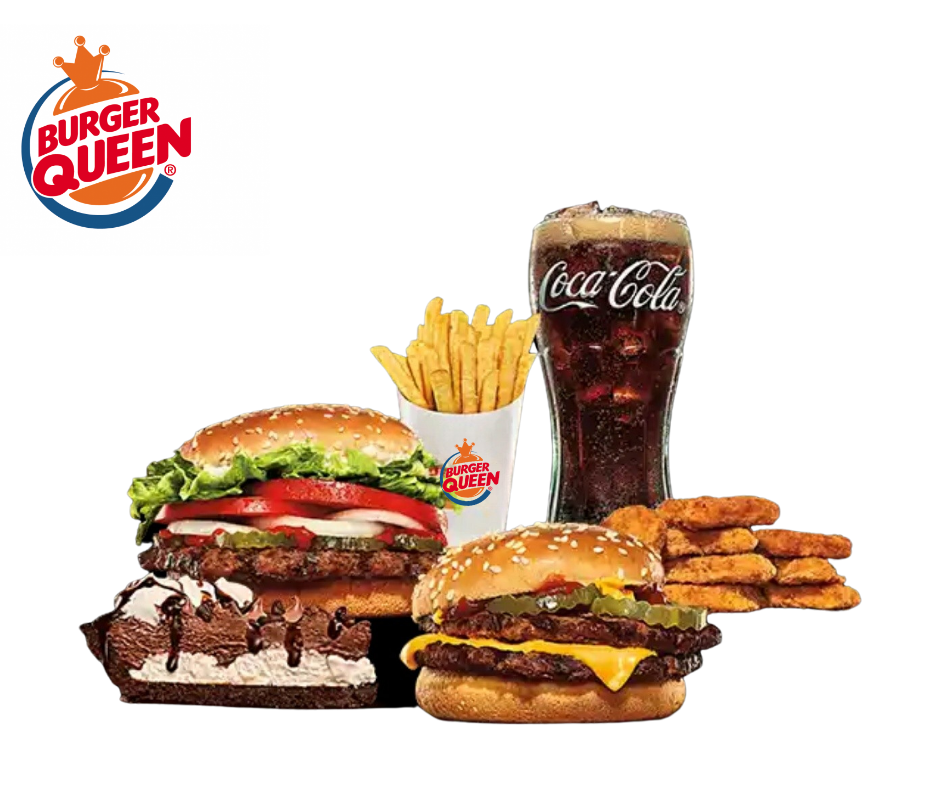
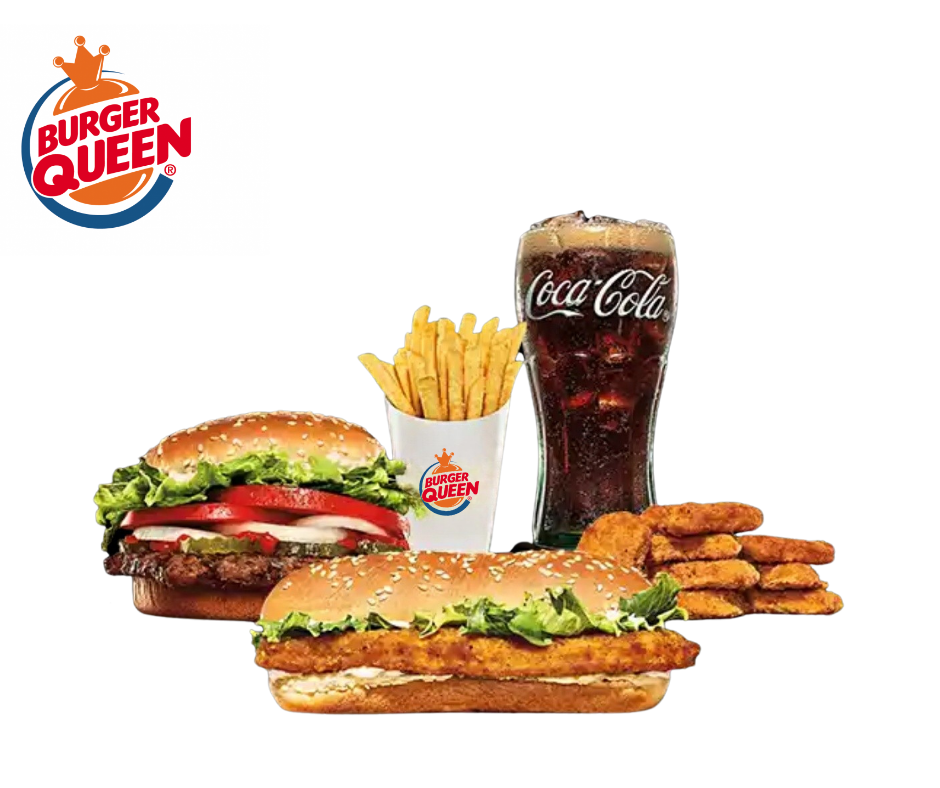
new carousel slide

Changed region(s): [[0.0617, 0.2437, 0.9255, 0.9442]]

diff --git a/order.html b/order.html
@@ -20,73 +20,37 @@
     <div class="row justify-content-center">
      
       <!------------------------Left Col Start-------------------------------------->
-      <div class="col-lg-7">
-        <h1 class="fs-2 text-center mt-5">TASTE THE ROYALLY AWESOME GOODNESS!!!!</h1>
+      <div class="col-lg-7 mt-2">
        
       <!-----------------------Carousel Start-------------------------------------->
         <div id="carouselExampleCaptions" class="carousel slide carousel-fade carousel-dark" data-bs-interval="5000" data-bs-ride="carousel">
-          <div class="carousel-indicators">
-            <button type="button" data-bs-target="#carouselExampleCaptions" data-bs-slide-to="0" class="active">
-            </button>
-            <button type="button" data-bs-target="#carouselExampleCaptions" data-bs-slide-to="1">
-            </button>
-            <button type="button" data-bs-target="#carouselExampleCaptions" data-bs-slide-to="2">
-            </button>
-            <button type="button" data-bs-target="#carouselExampleCaptions" data-bs-slide-to="3">
-            </button>
-            <button type="button" data-bs-target="#carouselExampleCaptions" data-bs-slide-to="4">
-            </button>
-            <button type="button" data-bs-target="#carouselExampleCaptions" data-bs-slide-to="5">
-            </button>
-            <button type="button" data-bs-target="#carouselExampleCaptions" data-bs-slide-to="6">
-            </button>
-            <button type="button" data-bs-target="#carouselExampleCaptions" data-bs-slide-to="7">
-            </button>
-            <button type="button" data-bs-target="#carouselExampleCaptions" data-bs-slide-to="8">
-            </button>
-            <button type="button" data-bs-target="#carouselExampleCaptions" data-bs-slide-to="9">
-            </button>
-            <button type="button" data-bs-target="#carouselExampleCaptions" data-bs-slide-to="10">
-            </button>
-            <button type="button" data-bs-target="#carouselExampleCaptions" data-bs-slide-to="11">
-            </button>
-          </div>
           <div class="carousel-inner">
             <div class="carousel-item active">
-              <img src="images/burger1.png" class="d-block w-100" alt="burger">
+              <img src="images/slide.png" class="d-block w-100 img-fluid" alt="burger">
             </div>
             <div class="carousel-item">
-              <img src="images/burger2.png" class="d-block w-100" alt="burger">
+              <img src="images/slide2.png" class="d-block w-100" alt="burgerer">
             </div>
             <div class="carousel-item">
-              <img src="images/burger3.png" class="d-block w-100" alt="burger">
+              <img src="images/slide3.png" class="d-block w-100" alt="burgerest">
             </div>
             <div class="carousel-item">
-              <img src="images/chicken1.png" class="d-block w-100" alt="burger">
+              <img src="images/slide4.png" class="d-block w-100" alt="chicken">
             </div>
             <div class="carousel-item">
-              <img src="images/chicken2.png" class="d-block w-100" alt="burger">
+              <img src="images/slide5.png" class="d-block w-100" alt="chickener">
             </div>
             <div class="carousel-item">
-              <img src="images/chicken3.png" class="d-block w-100" alt="burger">
+              <img src="images/slide6.png" class="d-block w-100" alt="chickenest">
             </div>
             <div class="carousel-item">
-              <img src="images/bundle1.png" class="d-block w-100" alt="burger">
+              <img src="images/slide7.png" class="d-block w-100" alt="bundle">
             </div>
             <div class="carousel-item">
-              <img src="images/bundle2.png" class="d-block w-100" alt="burger">
+              <img src="images/slide8.png" class="d-block w-100" alt="bundler">
             </div>
             <div class="carousel-item">
-              <img src="images/bundle3.png" class="d-block w-100" alt="burger">
-            </div>
-            <div class="carousel-item">
-              <img src="images/fries.png" class="d-block w-100" alt="burger">
-            </div>
-            <div class="carousel-item">
-              <img src="images/nuggets.png" class="d-block w-100" alt="burger">
-            </div>
-            <div class="carousel-item">
-              <img src="images/onionrings.png" class="d-block w-100" alt="burger">
+              <img src="images/slide9.png" class="d-block w-100" alt="bundlest">
             </div>
           </div>
         </div>
@@ -181,26 +145,26 @@
           </div>
           <div class="col">
             <div class="form-check">
-              <input class="form-check-input" type="checkbox" value="" id="flexCheckDefault">
-              <label class="form-check-label" for="flexCheckDefault">
+              <input class="form-check-input" type="checkbox" value="" id="coke">
+              <label class="form-check-label" for="drinks">
                 COKE
               </label>
             </div>
             <div class="form-check">
-              <input class="form-check-input" type="checkbox" value="" id="flexCheckDefault">
-              <label class="form-check-label" for="flexCheckDefault">
+              <input class="form-check-input" type="checkbox" value="" id="coke">
+              <label class="form-check-label" for="drinks">
                 SPRITE
               </label>
             </div>
             <div class="form-check">
-              <input class="form-check-input" type="checkbox" value="" id="flexCheckDefault">
-              <label class="form-check-label" for="flexCheckDefault">
+              <input class="form-check-input" type="checkbox" value="" id="coke">
+              <label class="form-check-label" for="drinks">
                 ROYAL
               </label>
             </div>
             <div class="form-check">
-              <input class="form-check-input" type="checkbox" value="" id="flexCheckDefault">
-              <label class="form-check-label" for="flexCheckDefault">
+              <input class="form-check-input" type="checkbox" value="" id="coke">
+              <label class="form-check-label" for="drinks">
                 MOUNTAIN DEW
               </label>
             </div>
@@ -229,20 +193,20 @@
           </div>
           <div class="col">
             <div class="form-check">
-              <input class="form-check-input" type="checkbox" value="" id="flexCheckDefault">
-              <label class="form-check-label" for="flexCheckDefault">
+              <input class="form-check-input" type="checkbox" value="" id="fries">
+              <label class="form-check-label" for="addons">
                 FRIES
               </label>
             </div>
             <div class="form-check">
-              <input class="form-check-input" type="checkbox" value="" id="flexCheckDefault">
-              <label class="form-check-label" for="flexCheckDefault">
+              <input class="form-check-input" type="checkbox" value="" id="nuggets">
+              <label class="form-check-label" for="addons">
                 CHICKEN NUGGETS
               </label>
             </div>
             <div class="form-check">
-              <input class="form-check-input" type="checkbox" value="" id="flexCheckDefault">
-              <label class="form-check-label" for="flexCheckDefault">
+              <input class="form-check-input" type="checkbox" value="" id="onionrings">
+              <label class="form-check-label" for="addons">
                 ONION RINGS
               </label>
             </div>

diff --git a/sample.html b/sample.html
@@ -29,43 +29,26 @@
 <body>
   
   <div class="container">
-    <nav>
-      <ul class="nav nav-tabs">
-        <li class="nav-item"><a class="nav-link active" href="# "  style="background-color: blue;">Home</a></li>
-        <li class="nav-item"><a class="nav-link" href="#">Profile</a></li>
-        <li class="nav-item"><a class="nav-link" href="#">About</a></li>
-        <li class="nav-item">
-          <a class="nav-link" href="#">Contact Us</a>
-        </li>
-      </ul>
-    </nav>
 
-    <div id="carouselExampleCaptions" class="carousel slide carousel-fade carousel-dark" data-bs-interval="5000" data-bs-ride="carousel">
-      <div class="carousel-indicators">
-        <button type="button" data-bs-target="#carouselExampleCaptions" data-bs-slide-to="0" class="active">
-        </button>
-        <button type="button" data-bs-target="#carouselExampleCaptions" data-bs-slide-to="1">
-        </button>
-        <button type="button" data-bs-target="#carouselExampleCaptions" data-bs-slide-to="2">
-        </button>
+  <div class="row"> 
+      <div class="col-lg-2 col-xs-1">
+      <div class="row">
+        <h1>ORDER</h1>
+        <div><img src="images/burger1.png" class="img-fluid" alt="" style="width: 4rem;"></div>
+        <div><img src="images/burger2.png" class="img-fluid" alt="" style="width: 4rem;"></div>
+        <div><img src="images/burger3.png" class="img-fluid" alt="" style="width: 4rem;"></div>
       </div>
-      <div class="carousel-inner">
-        <div class="carousel-item active">
-          <img src="images/burger1.png" class="d-block w-100" alt="burger">
-        </div>
-        <div class="carousel-caption d-none d-md-block">
-          <h5 class="text-black">First Slide Label</h5>
-          <p class="text-dark">Lorem, ipsum dolor sit amet consectetur adipisicing elit. Voluptates,</p>
-        </div>
-        <div class="carousel-item">
-          <img src="images/burger2.png" class="d-block w-100" alt="burger">
-        </div>
-        <div class="carousel-item">
-          <img src="images/burger3.png" class="d-block w-100" alt="burger">
-        </div>
       </div>
-    </div>
-  
+      <div class="col-lg-2 col-xs-1">
+        <div class="row justify-content-center">
+          <h1>PRICE</h1>
+          <div>&#x20B1 25.00</div>
+          <div>&#x20B1 102.00</div>
+          <div>&#x20B1 15.00</div>
+        </div>
+        </div>
+  </div>  
+
   </div>
 
 
@@ -77,3 +60,7 @@
 ></script>
 </body>
 </html>
+
+
+    
+    

diff --git a/karlo.css b/karlo.css
@@ -8,13 +8,9 @@
   .sm-nav {
     margin-right: -7px;
   }
+  
 }
 
-@media (min-width: 375px) {
-  .sm-width {
-    margin-left: 10px;
-  }
-}
 
 /*----------img expand style formatting--------------------*/
 .expand {
@@ -29,24 +25,6 @@
   transform: scale(1.5);
 }
 /*------------ end ----------------*/
-
-/*---------------------button select style formatting---------------*/
-
-.select {
-  cursor: pointer;
-  transition: 0.15s;
-}
-
-.select a {
- text-decoration: none;
- color: #ffffff;
-}
-
-.select:active {
-  padding-right: 50px;
-  padding-left: 50px;
-  background-color: rgb(160, 166, 3);
-}
 
 /*menu nav style formatting*/
 
